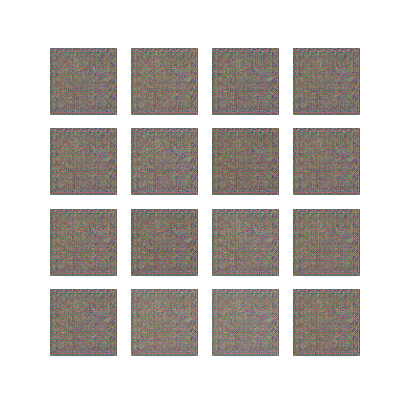
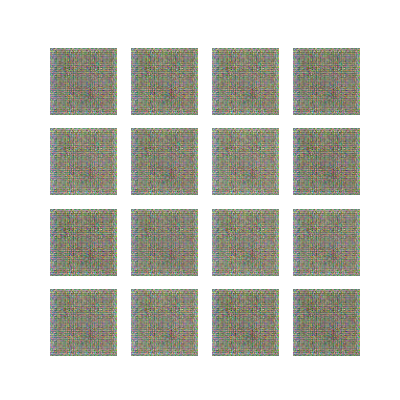
added dataset zip

diff --git a/dcgan/dcgan.py b/dcgan/dcgan.py
@@ -93,7 +93,7 @@ class GANMonitor(keras.callbacks.Callback):
             img = keras.utils.array_to_img(generated_images[i]) 
             plt.imshow(img)
             plt.axis('off')
-        plt.savefig('~/Pokemon-GAN/dcgan/results/epoch_{:03d}.png'.format(epoch)) 
+        plt.savefig('./results/epoch_{:03d}.png'.format(epoch)) 
         # plt.show()
 
     def on_train_end(self, logs=None):

diff --git a/dcgan/config.py b/dcgan/config.py
@@ -1,9 +1,5 @@
-NGF = 64
-NDF = 64
-NC = 3
-
-NUM_EPOCHS = 50 # number of epochs
+NUM_EPOCHS = 1000 # number of epochs
 D_LR = 0.0001 # UPDATED: discriminator learning rate
 G_LR = 0.0003 # UPDATED: generator learning rate
 
-DATA_DIR = '~/Pokemon-GAN/data'
+DATA_DIR = '../data'

diff --git a/dcgan/main.py b/dcgan/main.py
@@ -14,7 +14,7 @@ import argparse
 from process_data import *
 from config import *
 from model import *
-from dcgan.dcgan import *
+from dcgan import *
 
 def main():
     parser = argparse.ArgumentParser(description="Training DCGAN on Pokemons")
